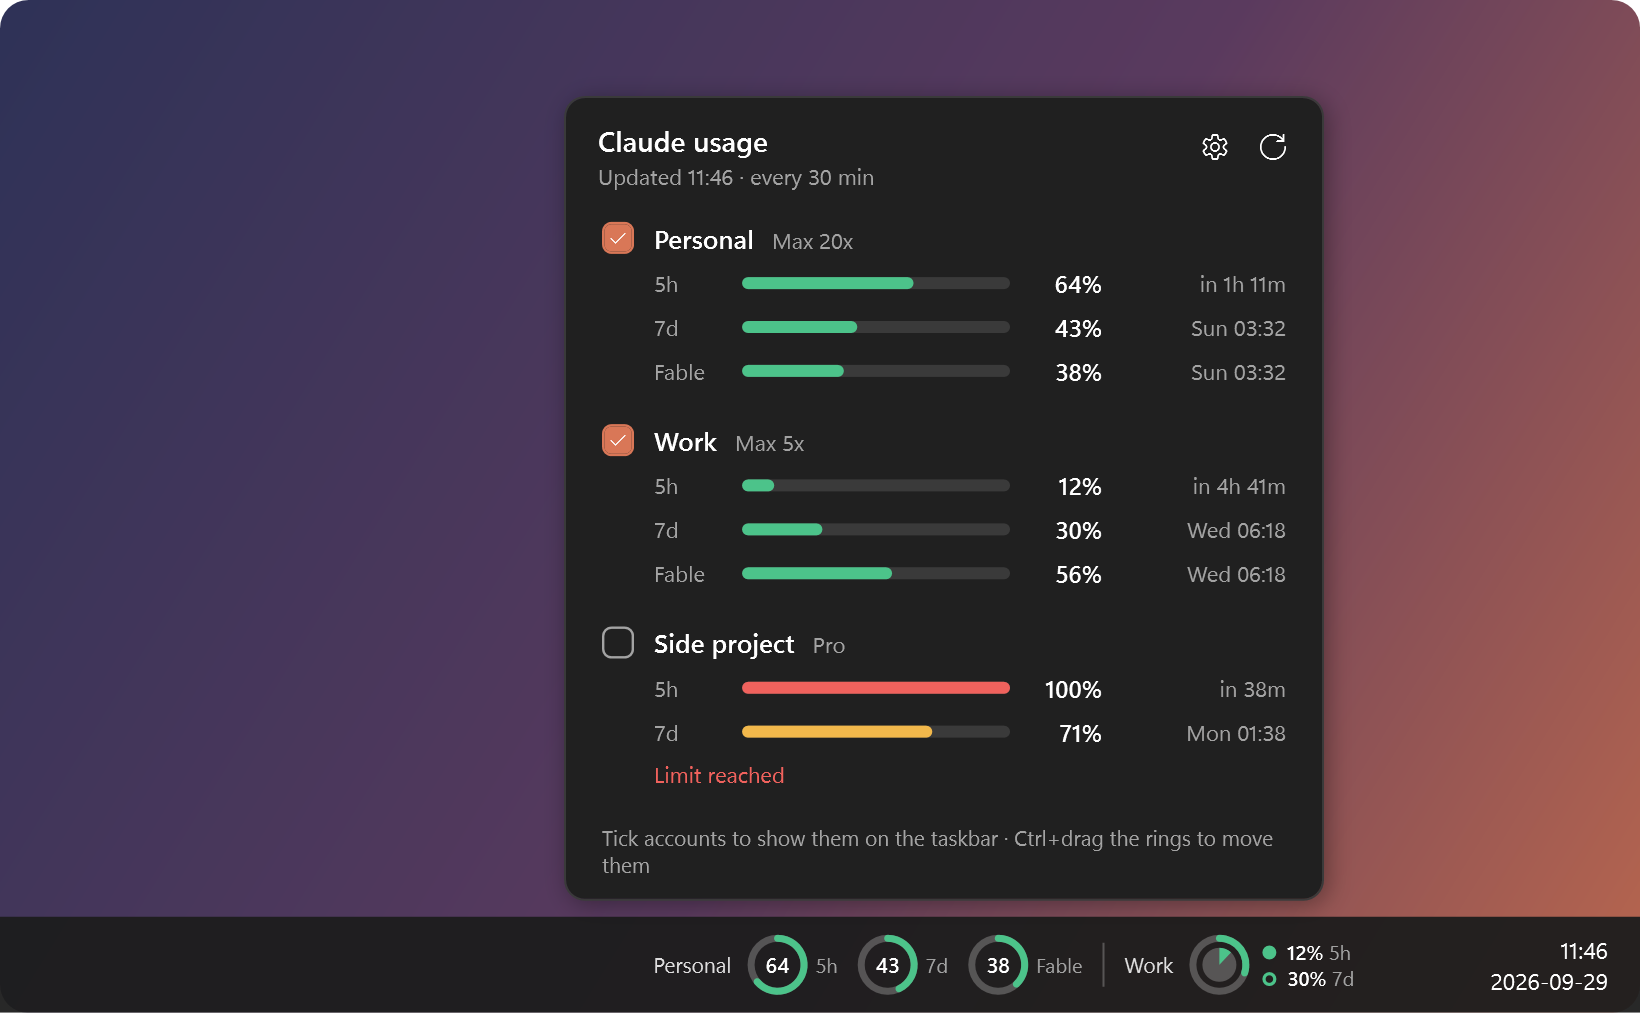
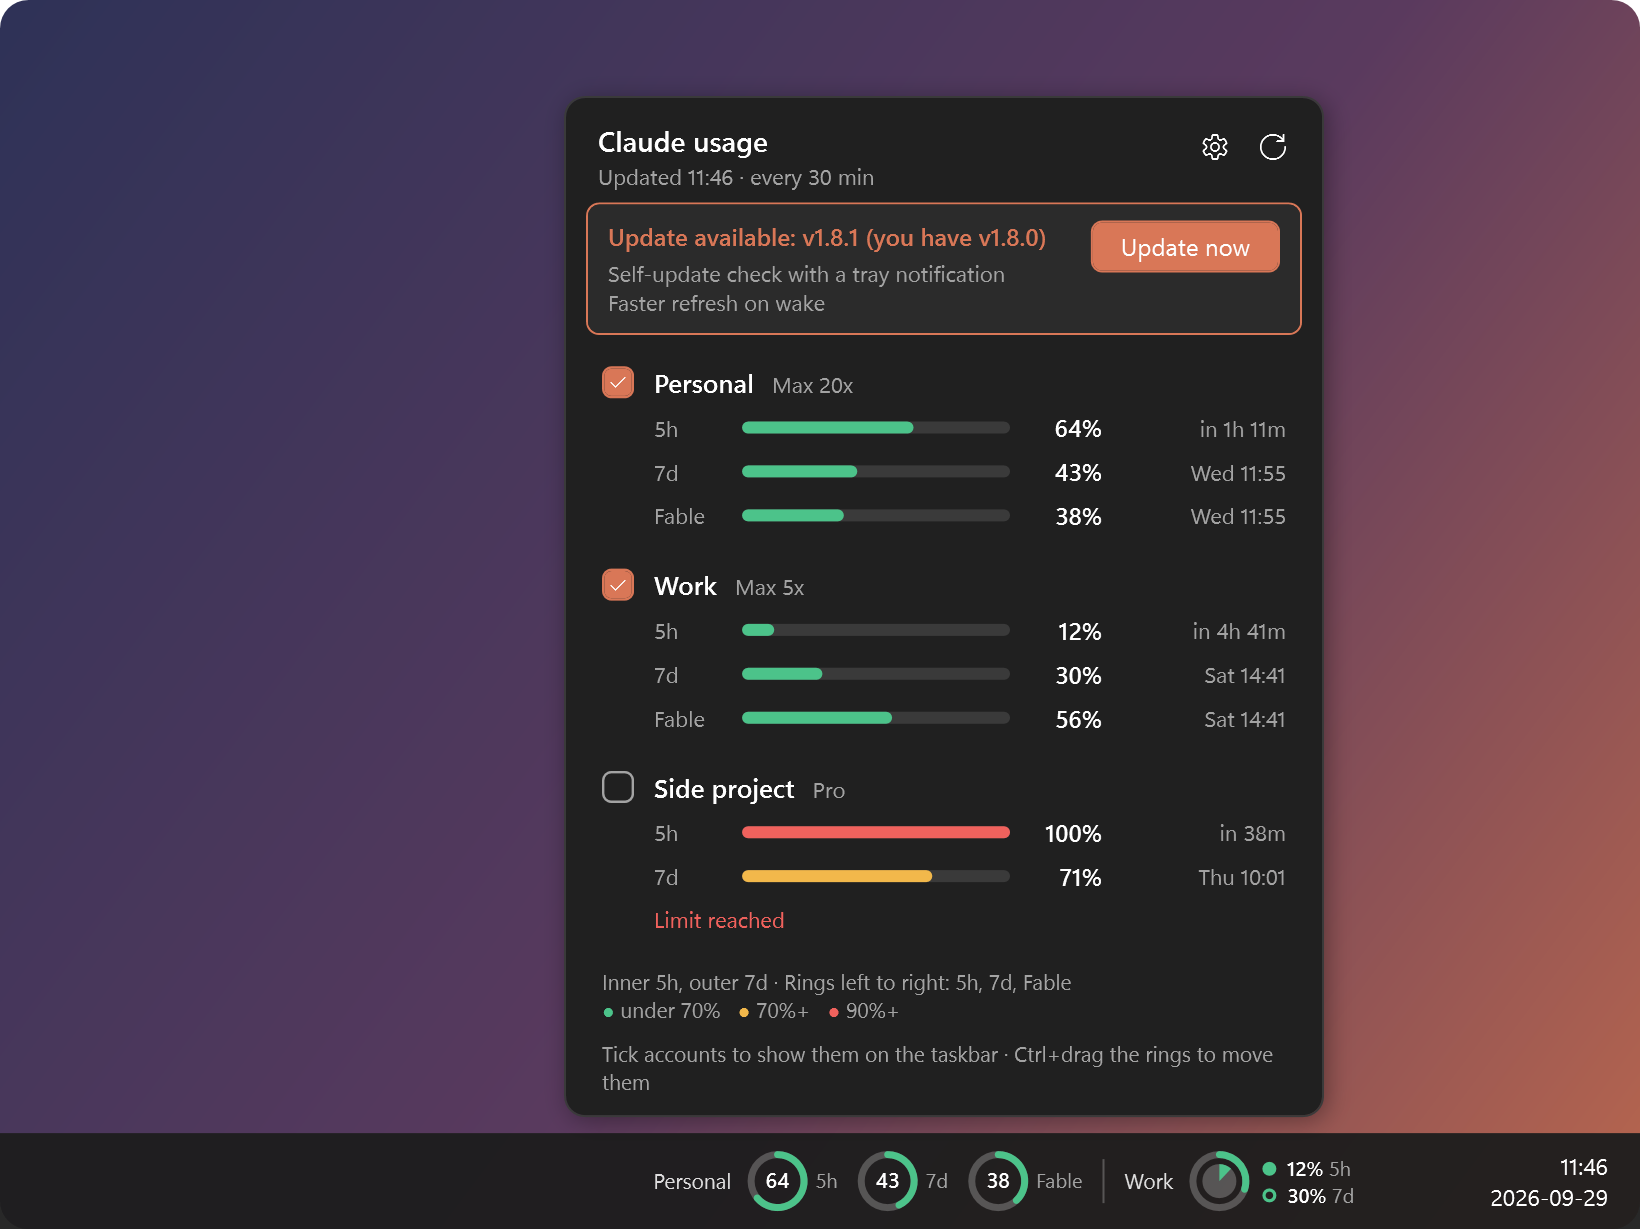
v1.8.0: hide percentages, initials inside the rings, ring legend

diff --git a/README.md b/README.md
@@ -18,7 +18,8 @@ One account or several, updated in the background, in one click.
 
 ## Features
 
-- **Rings on the taskbar.** Each ring is green up to 70%, amber up to 90% and red after that. Hover a ring for its reset time.
+- **Rings on the taskbar.** Each ring is green up to 70%, amber up to 90% and red after that. Hover a ring for its numbers, which ring is which, and its reset times.
+- **Compact when you have many accounts.** Turn **Percentages** off and the taskbar shows only the rings, with each account's initials inside (an automatic letter, two where first letters clash, or your own). Five Combined dials take about half the width they take with percentages.
 - **Multiple accounts.** Tick the accounts you want on the taskbar and they sit side by side, each with its name.
 - **All limits in one click.** The list shows each account's 5-hour window, 7-day window and Fable weekly limit, with countdowns to the resets.
 - **Finds your accounts.** On first run it picks up the Claude Code logins on your PC (and [xndr-claude](https://github.com/mrcsXndr/xndr-claude) accounts if you use it).
@@ -54,7 +55,7 @@ Running either one again updates you to the latest release and keeps your settin
 | --- | --- |
 | **Click** the rings | Open the account list |
 | **Tick** an account | Show it on the taskbar |
-| **⚙ Settings** | Rename accounts, pick Rings or Combined, choose rings, toggle names, captions and animations, set the refresh interval. Changes preview on the taskbar right away; **Save** keeps them and **Cancel** (or Esc) undoes them |
+| **⚙ Settings** | Rename accounts, set their initials, pick Rings or Combined, choose rings, toggle percentages, names, captions and animations, set the refresh interval. Changes preview on the taskbar right away; **Save** keeps them and **Cancel** (or Esc) undoes them |
 | **⟳** | Refresh now (at most once a minute) |
 | **Ctrl + drag** | Move the rings along the taskbar |
 | **Right-click** | Refresh · Settings · Scan for accounts · Start with Windows · Uninstall · Exit |
@@ -84,13 +85,14 @@ Everything is stored in `%APPDATA%\claude-usage-widget\config.json`. To open it,
 ```json
 {
   "refreshMinutes": 30,
+  "showPercents": true,
   "showNames": true,
   "showCaptions": true,
   "animations": true,
   "captions": { "5h": "5h", "7d": "7d", "fable": "Fable" },
   "accounts": [
     { "name": "claude-code", "label": "Personal", "source": "claude-code", "taskbar": true, "limits": ["5h", "7d", "fable"] },
-    { "name": "work",  "label": "Work",  "source": "xndr-claude", "style": "combined", "pie": "5h" },
+    { "name": "work",  "label": "Work",  "source": "xndr-claude", "style": "combined", "pie": "5h", "short": "Wk" },
     { "name": "vault", "label": "Vault", "source": "command", "command": "op read op://Private/claude/token" },
     { "name": "ci",    "label": "CI",    "source": "env", "env": "CLAUDE_CI_TOKEN", "fable": false }
   ]
@@ -104,9 +106,9 @@ Everything is stored in `%APPDATA%\claude-usage-widget\config.json`. To open it,
 | `command` | Whatever the command prints, for example a password manager CLI. |
 | `env` | An environment variable (read from your user environment, so one set while the widget runs works). The Token source in Settings creates these as `CLAUDE_USAGE_TOKEN_<NAME>`. |
 
-`"refreshMinutes"` sets how often it refreshes, 5 at the lowest. `"showNames"` and `"showCaptions"` turn the account names and ring captions on the taskbar on or off. `"animations"` turns the popup's fade and slide on or off.
+`"refreshMinutes"` sets how often it refreshes, 5 at the lowest. `"showPercents": false` shows only the rings, each with its account's initials inside. `"showNames"` and `"showCaptions"` turn the account names and ring captions on the taskbar on or off. `"animations"` turns the popup's fade and slide on or off.
 
-For each account, `"style": "combined"` shows 5h and 7d in one dial, and `"pie"` (`"5h"` or `"7d"`) picks which one goes in the middle. `"limits"` picks the rings in the Rings style. `"hidden": true` leaves an account out of the list and off the taskbar. `"fable": false` makes that account skip the Fable probe (see below).
+For each account, `"style": "combined"` shows 5h and 7d in one dial, and `"pie"` (`"5h"` or `"7d"`) picks which one goes in the middle (the inner ring when percentages are off). `"short"` sets the 1-2 initials shown inside its ring; leave it out for automatic ones. `"limits"` picks the rings in the Rings style. `"hidden": true` leaves an account out of the list and off the taskbar. `"fable": false` makes that account skip the Fable probe (see below).
 </details>
 
 ## How it works

diff --git a/CLAUDE.md b/CLAUDE.md
@@ -3,7 +3,7 @@
 Claude 5h / 7d / Fable usage as rings on the Windows 11 taskbar, with a per-account list and settings on click.
 It's plain PowerShell 5.1 + WPF, with no dependencies. Public repo; each version ships as a GitHub release with an installer.
 
-Status (2026-10-10): **v1.7.1** (patch: auto-find new accounts with Add/Ignore + badge, Settings tabs, reorder, ring centring, PATH refresh). Small fixes are patch bumps from now on. **v1.7.0** saves an approved token at once (Cancel no longer deletes the variable; the account is also written to the Cancel copy and config.json) and offers `xndr-claude add <name> --stdin` first when that command exists. **v1.6.0** adds Add account > Token (paste a setup token; after approval it is saved as user env var `CLAUDE_USAGE_TOKEN_<NAME>`, account `source: env` + `envManaged: true`; `Get-UserEnvToken` reads HKCU\Environment; xndr-claude is offered only when installed). v1.5.0 (self-update: daily GitHub release check, tray notification, "Update available" box, Update now runs the official `install.ps1` URL; state in `state.json` `updateCheckedAt` / `updateVersion` / `notifiedVersion` / `pendingUpdate`, setting `updateCheck` in config). v1.4.0 added Settings: find / add / remove accounts (the Browse folder dialog sets `$script:modal` so the popup's Deactivated handler doesn't close Settings). The project is feature-complete for now; see "Open items" below.
+Status (2026-10-13): **v1.8.0** adds Display > Percentages (`showPercents`, default on; off = rings only, Combined turns into inner + outer ring) with per-account initials inside the ring (`short`, else auto from `Get-Shorts`: first letter, two letters on a clash), ring positions + colour key in the hover tooltip, and a legend line under the list. `-Snapshot` also writes `bar-*.png` (taskbar strip at 100/125/150% via `SetRootDpi`) and `widget-nopct.png` for layout checks. **v1.7.1** (patch: auto-find new accounts with Add/Ignore + badge, Settings tabs, reorder, ring centring, PATH refresh). Small fixes are patch bumps from now on. **v1.7.0** saves an approved token at once (Cancel no longer deletes the variable; the account is also written to the Cancel copy and config.json) and offers `xndr-claude add <name> --stdin` first when that command exists. **v1.6.0** adds Add account > Token (paste a setup token; after approval it is saved as user env var `CLAUDE_USAGE_TOKEN_<NAME>`, account `source: env` + `envManaged: true`; `Get-UserEnvToken` reads HKCU\Environment; xndr-claude is offered only when installed). v1.5.0 (self-update: daily GitHub release check, tray notification, "Update available" box, Update now runs the official `install.ps1` URL; state in `state.json` `updateCheckedAt` / `updateVersion` / `notifiedVersion` / `pendingUpdate`, setting `updateCheck` in config). v1.4.0 added Settings: find / add / remove accounts (the Browse folder dialog sets `$script:modal` so the popup's Deactivated handler doesn't close Settings). The project is feature-complete for now; see "Open items" below.
 
 ## Layout
 

diff --git a/CHANGELOG.md b/CHANGELOG.md
@@ -3,6 +3,13 @@
 All notable changes to Claude Usage Widget. Versions follow [semantic versioning](https://semver.org/).
 Each version is a [GitHub release](https://github.com/mrcsXndr/claude-usage-widget/releases) with an installer.
 
+## [1.8.0] - 2026-10-13
+
+### Added
+- **Settings > Display > Percentages.** On by default (the look so far). Off, the taskbar shows only the rings, so many accounts fit: five Combined dials take about half the width. Combined becomes two rings (inner and outer) with the account's initials in the middle; Rings keeps one ring per limit with the initials inside each.
+- **Initials inside the ring.** Each account gets 1-2 characters: the first letter of its name, or two letters for accounts whose first letters clash (fadir and fable become Fa and Fb). Change them per account in Settings > Accounts (the arrow on the row > Initials); empty means automatic. Stored as `"short"` in config.json.
+- **Which ring is which.** Hovering an account on the taskbar now says where each limit sits (inner / outer ring, middle, or left / middle / right ring) and the colour thresholds, next to its percentages and reset times. The list has a one-line legend under it (for example "Inner 5h, outer 7d" and the green / amber / red key).
+
 ## [1.7.1] - 2026-10-10
 
 Small fixes ship as patch versions from now on.
